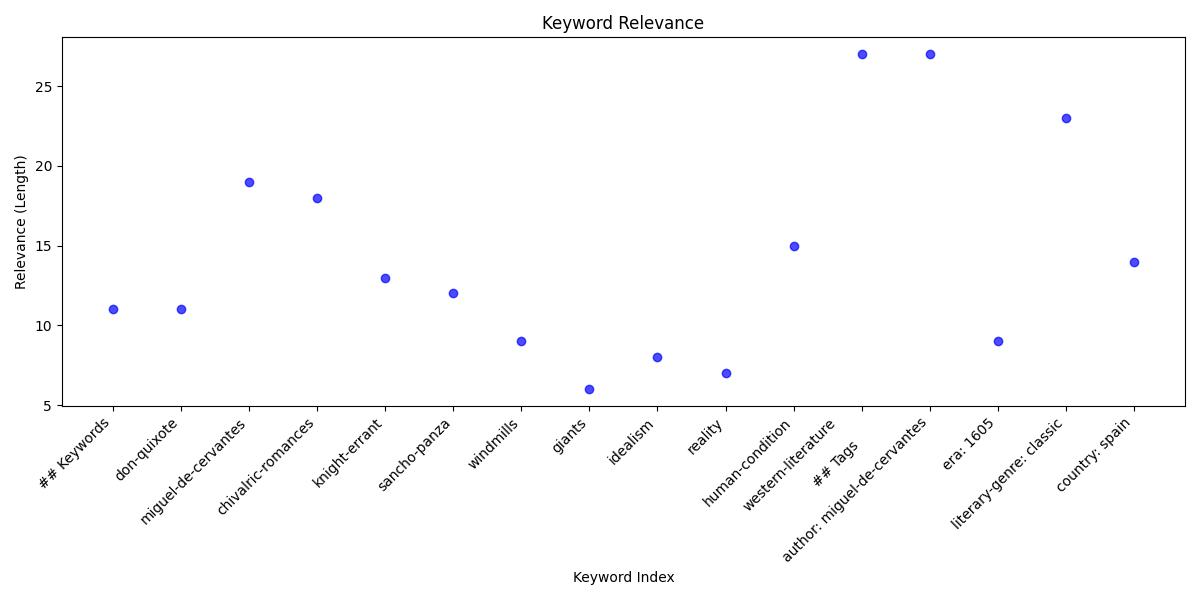
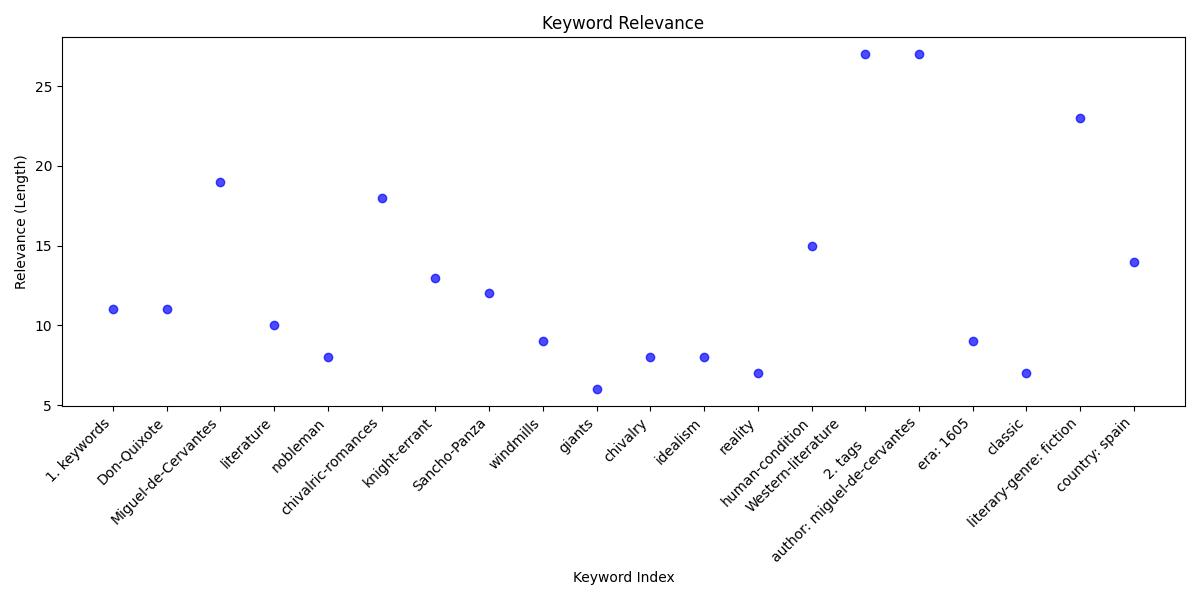
chore: commit save point

diff --git a/main.py b/main.py
@@ -18,7 +18,7 @@ KEYWORDS_PROMPT = [
     "Your task is to extract:",
     "1. The significant keywords from the blurb.",
     "2. Other meaningful tags (for example: the author, era, literary genre, country, if it is a classic).",
-    "The output (both keywords & tags) should be in an unordered markdown list, in English, lowercase, and spaces should be replaced with hyphens."
+    "The output (both 1. keywords & 2. tags) should be an 'unordered Markdown list', in English, lowercase, and spaces should be replaced with hyphens."
 ]
 
 # Parámetros de configuración para la llamada a la API
@@ -84,7 +84,7 @@ SYSTEM_PROMPT = [
     "You are an expert in literature and books.",
     "You will be provided with a blurb of a famous book.",
     "Your task is to suggest a list of related books along with their authors.",
-    "The output should be formatted as a list, where each entry is in the format: 'Title - Author'."
+    "The output should be formatted as a 'unordered markdown list', where each entry is in the format: 'Title (Author)'."
 ]
 
 def extract_related_books(text: str) -> str:
@@ -215,42 +215,37 @@ def main():
 
     # Llamamos a la función para extraer palabras clave
     extracted_keywords = extract_keywords(input_text)
-    print("\n🔑 **Extracted Keywords and Tags:**")
-    print("\n📌 **Keywords:**")
-    for keyword in extracted_keywords.split("keywords:")[-1].strip().split("\n- "):
-        if keyword:
-            print(f"   - {keyword}")
+    print("\n📌 Extracted Keywords and Tags:")
+    print(f"\n{extracted_keywords}")
 
     # Extraemos los tags de los keywords
     tags = parse_tags_from_keywords(extracted_keywords)
 
     # Llamamos a la función para obtener libros relacionados
     related_books = extract_related_books(input_text)
-    print("\n📚 **Related Books:**")
-    for book in related_books.split("\n"):
-        if book:
-            print(f"   {book}")
+    print("\n📚 Related Books:")
+    print(f"{related_books}")
 
     # Generamos la nube de palabras
     output_path_cloud = "img/tag_cloud.jpg"
     os.makedirs(os.path.dirname(output_path_cloud), exist_ok=True)
     generate_tag_cloud(extracted_keywords, output_path_cloud)
-    print(f"\n🌥 **Tag cloud saved to:** {output_path_cloud}")
+    print(f"\n🌥 Tag cloud saved to: {output_path_cloud}")
 
     # Generamos la gráfica de barras
     output_path_bar = "img/keyword_bar_chart.jpg"
     generate_bar_chart(extracted_keywords, output_path_bar)
-    print(f"\n📊 **Bar chart saved to:** {output_path_bar}")
+    print(f"📊 Bar chart saved to: {output_path_bar}")
 
     # Generamos la gráfica de pastel con los tags extraídos
     output_path_pie = "img/tag_pie_chart.jpg"
     generate_pie_chart(tags, output_path_pie)
-    print(f"\n🥧 **Pie chart saved to:** {output_path_pie}")
+    print(f"🥧 Pie chart saved to: {output_path_pie}")
 
     # Generamos scatter plot
     output_path_scatter = "img/keyword_scatter_plot.jpg"
     generate_scatter_plot(extracted_keywords, output_path_scatter)
-    print(f"\n📈 **Scatter plot saved to:** {output_path_scatter}")
+    print(f"📈 Scatter plot saved to: {output_path_scatter}")
 
 if __name__ == "__main__":
     main()
